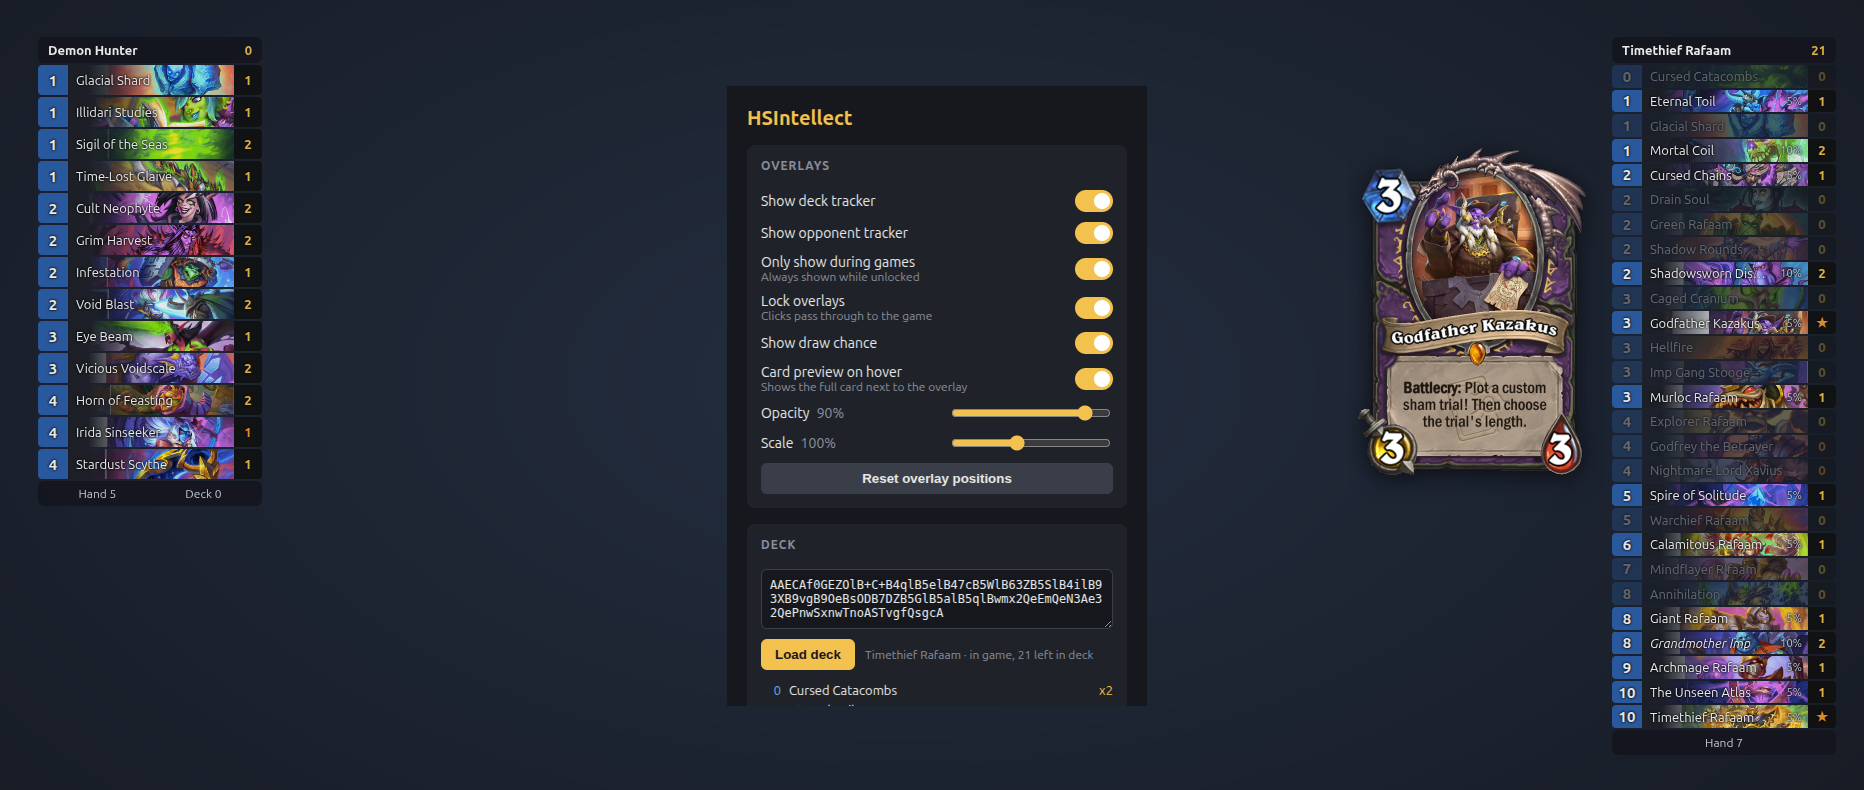
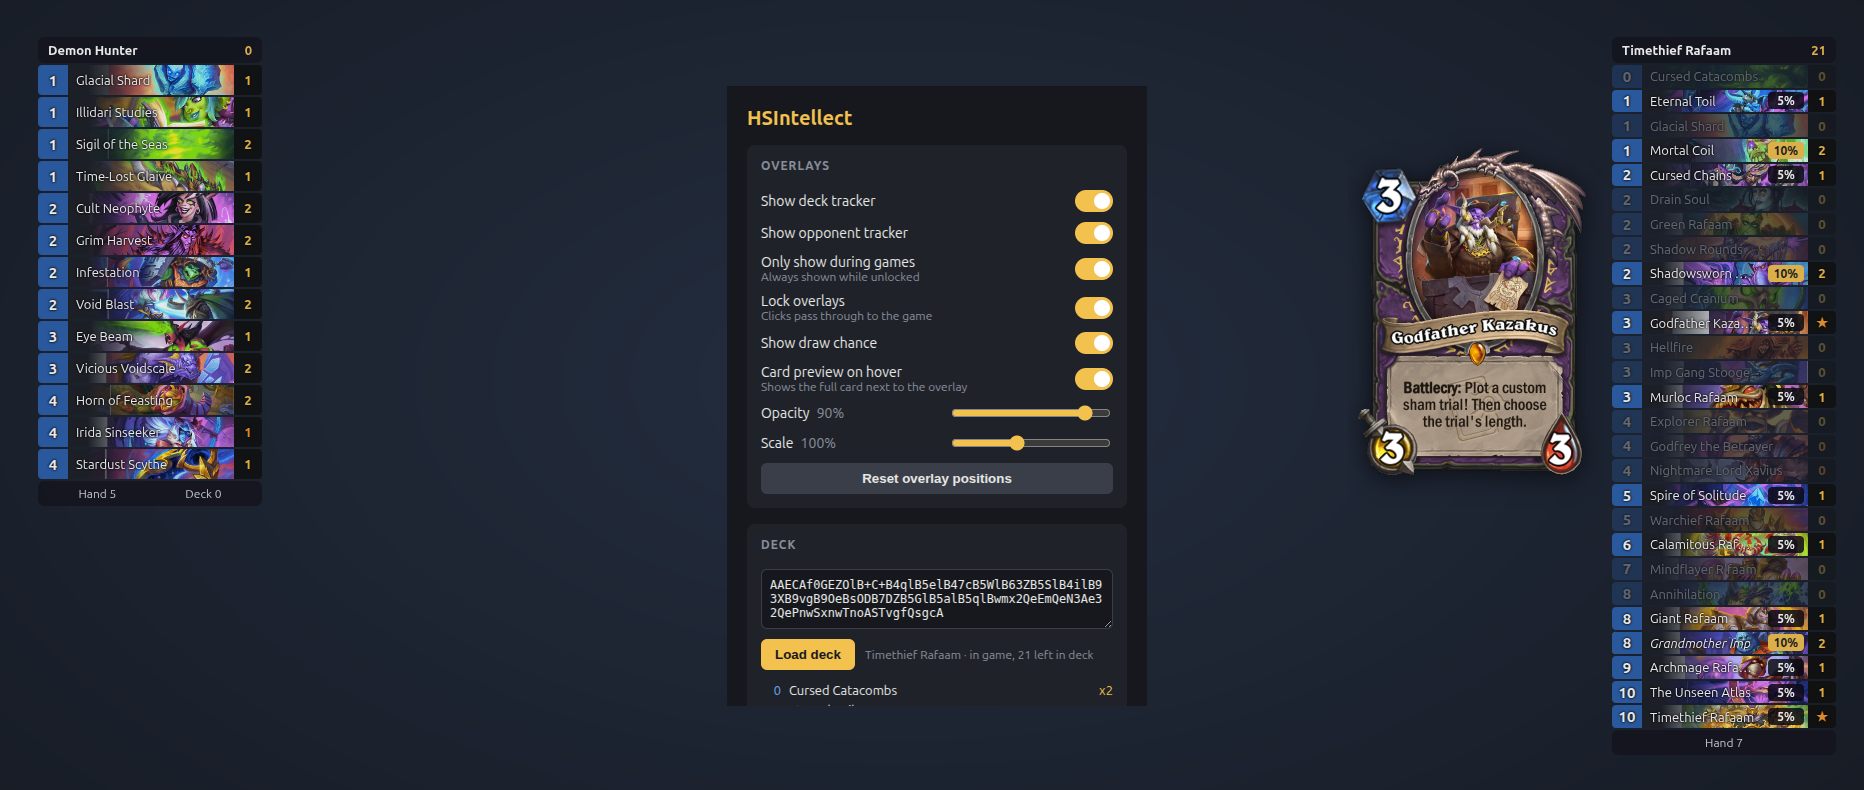
Add in-game screenshot to README, update overview

diff --git a/README.md b/README.md
@@ -4,7 +4,7 @@ A Hearthstone deck tracker. It reads the game's log files and shows an always-on
 
 Works on Linux (Steam/Proton, Lutris, Bottles, Heroic, Wine), Windows and macOS.
 
-![The opponent tracker, control window and deck tracker with a card preview, during a game](docs/images/overview.png)
+![HSIntellect during a game: the opponent tracker on the left and the deck tracker with draw chances on the right](docs/images/ingame.png)
 
 ## Features
 
@@ -47,6 +47,8 @@ Build with `npm run dist:win` or `npm run dist:mac` on that platform.
 Hearthstone not found? Open the control window and use **Hearthstone → Choose folder…** to pick the install folder (the one containing `Hearthstone.exe` / `Hearthstone_Data`).
 
 ## Using it
+
+![The opponent tracker, control window and deck tracker with a card preview](docs/images/overview.png)
 
 The overlays are **locked** by default: clicks go straight through to the game. Unlock them to drag and resize them, then lock them again.
 
